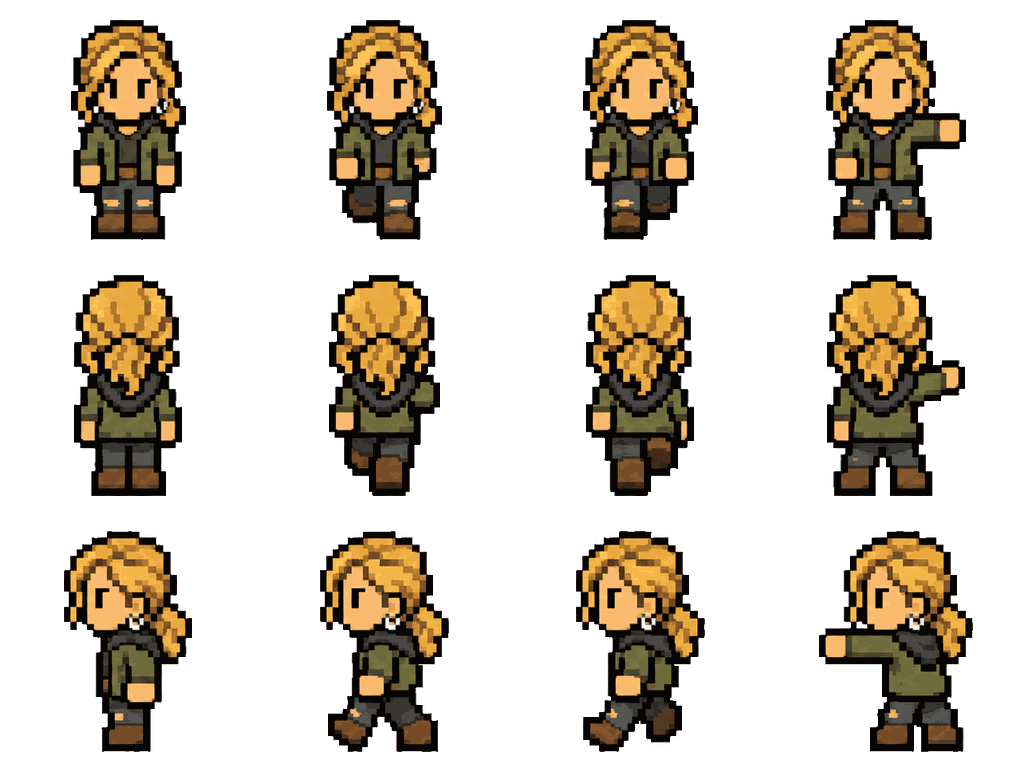
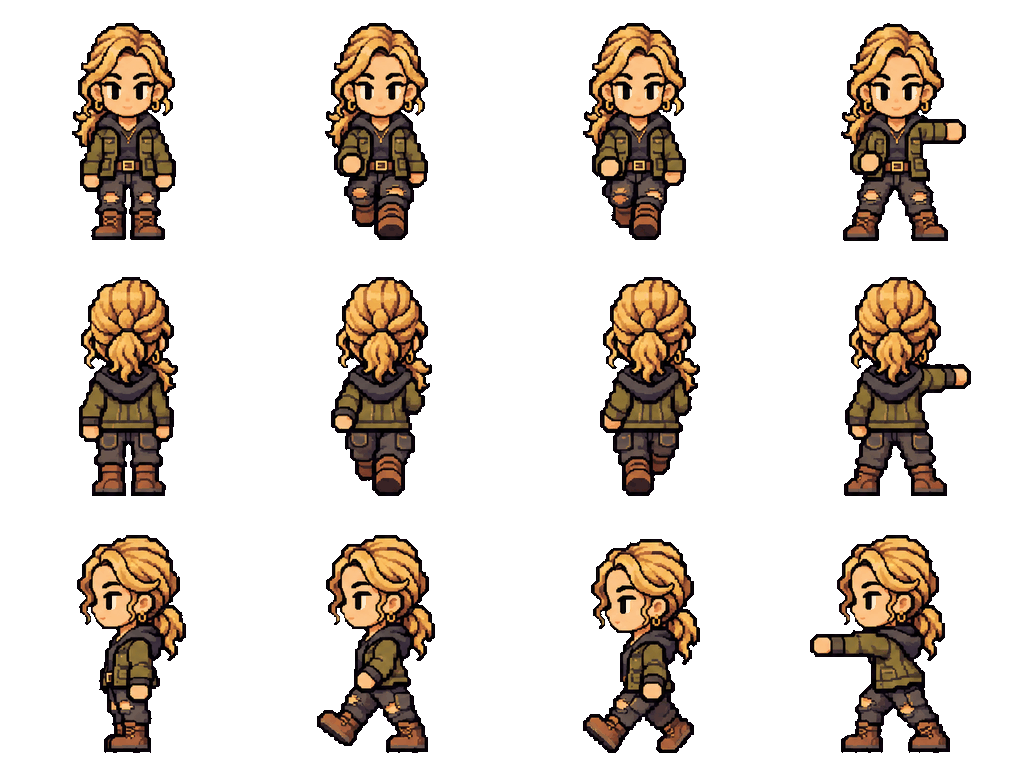
Elegir personaje por lista (hombre/mujer), 11 solo ORK con clase fija, hojas nuevas y reemplazos, sin doble modelo en la chica y el chico, evento de MVP sin daño entre jugadores y premios repartidos, emblemas de bando en los nombres
Claude-Session: https://claude.ai/code/session_01VGCmBo3CsU2Xq1dNwQVK9W

diff --git a/www/cenizas.js b/www/cenizas.js
@@ -111,7 +111,7 @@
     return lk && lk.npc && NPC && NPC.C[lk.npc] ? NPC.draw(lk.npc, dir, frame) : sprite(lk, dir, frame, atk); }
   /* dibuja un personaje (pixel 18×26 o planilla HD) con los pies en (sx, sy) */
   function blitChar(ctx, spr, sx, sy, S, k) { if (spr.hd) return HD.blit(ctx, spr, sx, sy + S, 25 * S * (k == null ? HD_K : k)); ctx.imageSmoothingEnabled = false; ctx.drawImage(spr, Math.round(sx - 9 * S), Math.round(sy - 25 * S), Math.round(18 * S), Math.round(26 * S)); }
-  const SKIN_NAMES = { pablo: 'Pablo 1', pablo2: 'Pablo 2', pablo3: 'Pablo 3', pol: 'Pol del futuro', polAlter: 'Pol alter', renzo: 'Renzo', sam: 'Sam', eze: 'Eze', esteban: 'Esteban', giuliana: 'Giuliana', lean: 'Lean', luis: 'Luis', norbert: 'Norbert', toby: 'Tobías', tomy: 'Tomy' };
+  const SKIN_NAMES = { pablo4: 'Pablo casual', pabloFuturo: 'Pablo futuro', pablo: 'Pablo 1', pablo2: 'Pablo 2', pablo3: 'Pablo 3', pol: 'Pol del futuro', polAlter: 'Pol alter', renzo: 'Renzo', sam: 'Sam', eze: 'Eze', esteban: 'Esteban', giuliana: 'Giuliana', lean: 'Lean', luis: 'Luis', norbert: 'Norbert', toby: 'Tobías', tomy: 'Tomy' };
   const skinName = k => { const n = SKIN_NAMES[k]; if (n) return n; const H = window.CZ_SHEETS; if (H && H.ALL.includes(H.NPC_SHEET[k] || k)) return (k.charAt(0).toUpperCase() + k.slice(1)).replace(/_/g, ' '); return null; };
   /* tipos de Oscuro: h = altura en mundo; las imágenes laterales miran a la derecha */
   /* Oscuros en pixel: PXS = tamaño de cada pixel en el mundo (igual que los avatares) */
@@ -386,7 +386,7 @@
       addItem(k); INV.dur[k] = it.mag; return k; }
     addItem(k); return k; }
   /* botín: fichas genéricas que se convierten en un objeto del color que toque */
-  const DROPW = { mapa: { v: 70, a: 22, p: 7, n: 1 }, alto: { v: 45, a: 34, p: 17, n: 4 }, jefe: { v: 8, a: 32, p: 38, n: 22 }, mvp: { v: 0, a: 20, p: 45, n: 35 } };
+  const DROPW = { mapa: { v: 70, a: 22, p: 7, n: 1 }, alto: { v: 45, a: 34, p: 17, n: 4 }, jefe: { v: 8, a: 32, p: 38, n: 22 }, mvp: { v: 0, a: 20, p: 45, n: 35 }, evento: { v: 65, a: 30, p: 5 } };
   const pickT = w => pickW(Object.entries(DROPW[w] || DROPW.mapa));
   function resolveLoot(k, w) { if (!k || k.length > 2 || !/^[A-Z]$/.test(k)) return k; const t = pickT(w || (MAP && (MAP.lv || [1, 3])[1] > 30 ? 'alto' : 'mapa'));
     if (k === 'W') return TKEY(pickW([['barra', 2], ['cuchillo', 2], ['bate', 2], ['lanza', 1], ['katana', 1], ['hacha', 1.4], ['machete', 1.6], ['martillo', 1], ['cadena', 1.2], ['tubo', 1.3]]), t);
@@ -568,7 +568,7 @@
   }
   /* skins: Pablo y Pol son de una cuenta; Renzo y Sam se ganan matando a Mercedes */
   let mySkins = [];
-  async function loadSkins(uid, gc) { const set = new Set((gc && gc.inv && gc.inv.skins) || []);
+  async function loadSkins(uid, gc) { const set = new Set((gc && gc.inv && gc.inv.skins) || []); if (me && ['xhiang', 'pablo'].includes(String(me.nick || '').toLowerCase())) { set.add('pablo4'); set.add('pabloFuturo'); }
     try { const { data } = await sb.from('game_skins').select('skin').eq('user_id', uid); (data || []).forEach(r => set.add(r.skin)); } catch (e) {}
     return [...set].filter(k => skinName(k)); }
   /* EXPERIMENTAL: nivel, mochila y lugar guardados aparte (game_exp, o el teléfono si falta la tabla) */
@@ -583,29 +583,34 @@
   function perkText() { if (!me || me.faction !== 'ork') return 'Rebeldes: corren más rápido y encuentran más cosas al matar Oscuros.'; return 'ORK: los Oscuros te sacan 15% menos. ' + ['Militar: los Perros te sacan 40% menos.', 'Científico: los Corredores te sacan 40% menos.', 'Espía: los Errantes te sacan 40% menos.'][(look && look.cls) || 0]; }
   function creator(prev) {
     const pl = prev && prev.look && prev.look.body != null ? prev.look : {};
-    look = Object.assign({ body: 0, skin: 1, hair: 0, hcol: 1, top: 0, acc: 0 }, pl, { fac: me.faction }); delete look.char;
+    look = Object.assign({ body: 0 }, pl, { fac: me.faction }); delete look.char;
     const cre = $('#cre'); cre.hidden = false; let rot = 0; const dirs = ['d', 'l', 'u', 'r'];
     if (me.faction === 'ork' && look.cls == null) look.cls = 0;
     const box = $('#opts');
     function rows() { box.querySelectorAll('.opt,.perk').forEach(e => e.remove());
-      const opts = [['CUERPO', 'body', () => BODY], ['PIEL', 'skin', () => ['Tono 1', 'Tono 2', 'Tono 3', 'Tono 4']], ['PELO', 'hair', () => HAIR], ['COLOR', 'hcol', () => HCOL.map(h => h[0])],
-        ['ROPA', 'top', () => me.faction === 'ork' ? OTOPS[look.cls].map(t => t[0]) : TOPS.rebel.map(t => t[0])], ['ACCESORIO', 'acc', () => ACC]];
-      if (HD) { for (let i = opts.length - 1; i >= 0; i--) if (opts[i][1] === 'hair' || opts[i][1] === 'acc') opts.splice(i, 1); opts.push(['PANTALÓN', 'pant', () => PANTC.map(p => p[0])]); opts.splice(opts.findIndex(o => o[1] === 'body') + 1, 0, ['MODELO', 'model', () => ['Modelo 1', 'Modelo 2']]); }
-      if (me.faction === 'ork') opts.unshift(['CLASE', 'cls', () => OCLS]);
-      const SELL_ = (HD && HD.SEL) || []; if (SELL_.length) { opts.unshift(['ASPECTO', 'pjI', () => ['Armable'].concat(SELL_.map((k, i) => 'Sobreviviente ' + (i + 1)))]); look.pjI = look.pj ? SELL_.indexOf(look.pj) + 1 : 0; }
-      if (mySkins.length) opts.unshift(['PERSONAJE', 'npcI', () => ['Propio'].concat(mySkins.map(k => skinName(k)))]);
+      const ork = me.faction === 'ork', list = HD ? HD.roster(look.body === 1, ork) : [];
+      if (HD) { let ix = HD.rosterIdx(list, look); if (look.pj && !list.some(r => r.k === look.pj)) ix = 0; HD.pickPj(look, list[ix]); look.pjI = ix; }
+      const cur = HD ? list[look.pjI] : null, fixed = cur && cur.cls != null;
+      const opts = [['CUERPO', 'body', () => BODY], ['PERSONAJE', 'pjI', () => list.map(r => r.nm)]];
+      if (ork) opts.push(['CLASE', 'cls', () => OCLS, fixed]);
+      if (mySkins.length) opts.unshift(['ESPECIAL', 'npcI', () => ['Ninguno'].concat(mySkins.map(k => skinName(k)))]);
       look.npcI = look.npc ? mySkins.indexOf(look.npc) + 1 : 0;
       const first = box.firstChild;
-      opts.forEach(([lab, k, lf]) => { const list = lf(); const r = document.createElement('div'); r.className = 'opt';
+      opts.forEach(([lab, k, lf, lock]) => { const L = lf(); const r = document.createElement('div'); r.className = 'opt';
         r.innerHTML = '<span>' + lab + '</span><button aria-label="anterior">‹</button><b></b><button aria-label="siguiente">›</button>';
-        const bb = r.querySelector('b'); const upd = () => bb.textContent = list[look[k] || 0] || list[0];
-        const ch_ = dv => { look[k] = ((look[k] || 0) + dv + list.length) % list.length; if (k === 'npcI') { if (look.npcI) look.npc = mySkins[look.npcI - 1]; else delete look.npc; } if (k === 'pjI') { if (look.pjI) look.pj = HD.SEL[look.pjI - 1]; else delete look.pj; } if (k === 'cls') { look.top = 0; rows(); } else upd(); draw(); };
-        r.children[1].onclick = () => ch_(-1); r.children[3].onclick = () => ch_(1); upd(); box.insertBefore(r, first); });
+        const bb = r.querySelector('b'); bb.textContent = L[look[k] || 0] || L[0];
+        if (lock) { r.children[1].disabled = r.children[3].disabled = true; r.classList.add('lock'); bb.textContent += ' · fija'; }
+        const ch_ = dv => { look[k] = ((look[k] || 0) + dv + L.length) % L.length;
+          if (k === 'npcI') { if (look.npcI) look.npc = mySkins[look.npcI - 1]; else delete look.npc; }
+          if (k === 'body') { delete look.pj; delete look.model; }
+          if (k === 'pjI') { HD.pickPj(look, list[look.pjI]); if (list[look.pjI].cls == null && cur && cur.cls != null) look.cls = 0; }
+          rows(); draw(); };
+        r.children[1].onclick = () => ch_(-1); r.children[3].onclick = () => ch_(1); box.insertBefore(r, first); });
       const pk = document.createElement('p'); pk.className = 'perk'; pk.textContent = perkText(); box.insertBefore(pk, first); }
     box.innerHTML = '';
     const go = document.createElement('button'); go.className = 'btn solid go'; go.textContent = 'ENTRAR'; box.appendChild(go); rows();
     const pv = $('#pv'), pg = pv.getContext('2d'); pg.imageSmoothingEnabled = false;
-    let f = 0; draw = function () { pg.clearRect(0, 0, 48, 64); blitChar(pg, charSprite(look, dirs[rot], f, false), 24, 44, 1, 1); }
+    let f = 0; draw = function () { pg.clearRect(0, 0, 240, 320); const sp = charSprite(look, dirs[rot], f, false); pg.imageSmoothingEnabled = !!sp.hd; blitChar(pg, sp, 120, 220, 5, 1.6); }
     const iv = setInterval(() => { f = (f + 1) % 3; draw(); }, 260); draw();
     $('#pv-rot').onclick = () => { rot = (rot + 1) % 4; draw(); };
     go.onclick = async () => { go.disabled = true; clearInterval(iv); delete look.npcI; delete look.pjI;
@@ -696,7 +701,8 @@
     warping = true; $('#fade').classList.add('on'); persist();
     setTimeout(() => { enterMap(e.to, e.at[0] * WS, e.at[1] * WS); sendPos(true); persist(); $('#fade').classList.remove('on'); warping = false; }, 650); }
   function warpTo(k, x, y) { if (!MAPS[k]) return; warping = true; $('#fade').classList.add('on'); setTimeout(() => { enterMap(k, x != null ? x * WS : null, y != null ? y * WS : null); sendPos(true); persist(); $('#fade').classList.remove('on'); warping = false; }, 650); }
-  function drawAv() { const cv = $('#h-av'); if (!cv || !look) return; const g = cv.getContext('2d'); g.clearRect(0, 0, 96, 128); let spr = null; try { spr = charSprite(look, 'd', 0, false); } catch (e) {} if (!spr) return; if (spr.hd) { g.imageSmoothingEnabled = true; g.drawImage(spr, 58, 22, 140, 186, 0, 0, 96, 128); } else { g.imageSmoothingEnabled = false; g.drawImage(spr, 0, 0, spr.width, spr.height * .7, 6, 6, 84, 116 * .9); } drawAv.ok = spr.hd ? 2 : 1; }
+  function drawAv() { const cv = $('#h-av'); if (!cv || !look) return; const g = cv.getContext('2d'); g.clearRect(0, 0, 96, 128); let spr = null; try { spr = charSprite(look, 'd', 0, false); } catch (e) {} if (!spr) return; if (spr.hd) { g.imageSmoothingEnabled = true; g.drawImage(spr, 58, 22, 140, 186, 0, 0, 96, 128); } else { g.imageSmoothingEnabled = false; g.drawImage(spr, 0, 0, spr.width, spr.height * .7, 6, 6, 84, 116 * .9); } drawAv.ok = spr.hd ? 2 : 1; drawAv.key = JSON.stringify(look); }
+  setInterval(() => { if (look && ((drawAv.ok || 0) < 2 || drawAv.key !== JSON.stringify(look))) drawAv(); }, 600); /* el retrato espera a que cargue la planilla */
   function hud() { if ((drawAv.ok || 0) < 2 && (drawAv.n = (drawAv.n || 0) + 1) < 60 && drawAv.n % 6 === 0) drawAv(); { const nk = $('#h-nick'), t_ = me.nick + '|' + lvlOf(P.xp); if (nk && nk.dataset.v !== t_) { nk.dataset.v = t_; nk.textContent = me.nick; const e_ = document.createElement('em'); e_.textContent = 'NV ' + lvlOf(P.xp); nk.appendChild(e_); } } const lv = lvlOf(P.xp), a = xpFor(lv), b = xpFor(lv + 1); $('#h-hp').style.width = Math.max(0, P.hp / maxHp(lv) * 100) + '%'; $('#h-xp').style.width = (lv >= 100 ? 100 : Math.min(100, (P.xp - a) / (b - a) * 100)) + '%';
     $('#h-lv').textContent = 'NV ' + lv + ' · ' + (INV ? weaponLabel() : 'PALO') + ' · ' + Math.ceil(P.hp) + '/' + maxHp(lv) + (INV && INV.eq.luz ? ' · LUZ ' + Math.ceil(INV.bat) + '%' : '') + (INV && INV.eq.ropa ? ' · ESCUDO ' + (INV.dur[INV.eq.ropa] != null ? INV.dur[INV.eq.ropa] : ITEMS[INV.eq.ropa].shield) : '') + ' · ' + (INV ? INV.coins : 0) + ' monedas' + (INV && INV.ab.length ? ' · ' + INV.ab.map(a => AB[a].n).join(' · ') : '') + (suero.map ? ' · MALETÍN: ' + MAPS[suero.map].name : ''); }
   async function persist() { if (!P || !me || !look) return; if (EXP) return persistExp(); store.set('cz-inv-' + me.id, JSON.stringify(INV));
@@ -776,7 +782,7 @@
   /* PvP: al morir a manos de otro jugador se te cae un objeto común */
   function pvpDrop() { const k = ['suero', 'pilas', 'campera', 'chaleco'].find(k => hasItem(k) && INV.eq.ropa !== k && k !== 'vendas'); if (!k) return; INV.items[k]--; if (!INV.items[k]) delete INV.items[k];
     const pid = me.id.slice(0, 6) + Date.now(); pickups.push({ k, x: P.x, y: P.y, t: 0, pid }); net('drop', { pid, k, x: Math.round(P.x), y: Math.round(P.y) }); persist(); }
-  const enemy = o => o && o.fac && o.fac !== me.faction && !o.dead && !o.iv;
+  const enemy = o => o && o.fac && o.fac !== me.faction && !o.dead && !o.iv && !(MAP && MAP.mvp); /* en el evento de MVP nadie se pega con nadie */
 
   /* mochila */
   let invSel = null;
@@ -1015,12 +1021,21 @@
     INV.mvpDay = dayN(); INV.mvpWon = INV.mvpWon || {}; INV.mvpWon[mk] = (INV.mvpWon[mk] || 0) + 1;
     banner('¡VENCIERON!', M.n + ' cayó', 3500, '#ffd860'); SND.level(); buzz([60, 40, 120]);
     if (P.dead) { P.dead = false; P.hp = maxHp(lvlOf(P.xp)) * .5; $('#ov-dead').hidden = true; }
-    const got = []; M.drops.forEach(([k, ch]) => { if (Math.random() < ch) { addItem(k); got.push(ITEMS[k].n); } });
-    for (let i = 0; i < 2; i++) { const k = resolveLoot(pickW([['W', 2], ['C', 2], ['A', 2], ['G', 1], ['V', 2], ['P', 1]]), 'mvp'); const g = takeItem(k); if (g) got.push(ITEMS[g].n); }
+    /* premio para todos los que estén: oro + 2 cosas comunes */
+    const ORO = 200; INV.coins += ORO; const got = [ORO + ' monedas'];
+    for (let i = 0; i < 2; i++) { const k = resolveLoot(pickW([['W', 2], ['C', 2], ['A', 2], ['V', 3], ['P', 2], ['M', 2]]), 'evento'); const g = takeItem(k); if (g) got.push(ITEMS[g].n); }
+    hud(); quickBtns();
+    /* ítem único: lo tira una sola vez el host. 10%: si sale, le toca a uno de los presentes al azar; si no, a nadie */
+    if (isHost) { const ids = [me.id].concat([...others.keys()]); if (Math.random() < MVP_UNICO) { const k = M.drops[(Math.random() * M.drops.length) | 0][0], to = ids[(Math.random() * ids.length) | 0];
+        const nick = to === me.id ? me.nick : (others.get(to) || {}).nick || 'alguien'; net('mvploot', { to, k, nick }); mvpLoot({ to, k, nick }); } else net('mvploot', { none: 1 }), mvpLoot({ none: 1 }); }
     if (M.pista) { INV.mvpPistas = INV.mvpPistas || []; if (!INV.mvpPistas.includes(M.pista)) INV.mvpPistas.push(M.pista); }
     setTimeout(() => { toast('Ganaste: ' + got.join(' · ') + (M.pista ? ' · PISTA: "' + M.pista + '"' : '')); }, 1500);
-    if (M.pista) setTimeout(() => banner('PISTA', '"' + M.pista + '"', 4000, '#e8c070'), 4200);
+    if (M.pista) setTimeout(() => banner('PISTA', '"' + M.pista + '"', 4000, '#e8c070'), 7200);
     persist(); setTimeout(() => mvpBack(), 11000); }
+  const MVP_UNICO = .10;
+  function mvpLoot(p) { if (p.none) return setTimeout(() => toast('Esta vez no cayó ningún objeto único.'), 2600);
+    const it = ITEMS[p.k]; if (!it) return; if (p.to === me.id) { addItem(p.k); persist(); quickBtns(); SND.level(); buzz([80, 40, 160]); }
+    setTimeout(() => banner(p.to === me.id ? '¡OBJETO ÚNICO!' : 'OBJETO ÚNICO', (p.to === me.id ? 'Te tocó: ' : p.nick + ' se llevó: ') + it.n, 4200, '#ff3b5c'), 2600); }
   function revive(id) { if (!hasItem('suero') && !hasItem('kit')) return toast('Para revivir necesitás un maletín de curación total o un kit de curación.'); const k = hasItem('suero') ? 'suero' : 'kit'; INV.items[k]--; if (!INV.items[k]) delete INV.items[k]; if (k === 'suero') sueroTaken();
     net('revive', { to: id, by: me.nick }); SND.level(); toast('Lo reviviste.'); persist(); quickBtns(); }
   /* al morir quedás limpio: sin veneno, fuego, lentitud, aturdimiento ni habilidades */
@@ -1251,13 +1266,14 @@
       enemies: p => applyEnemies(p),
       req: () => { if (netMode === 'MULTI_HOST') needFull = true; lastPlayerSent = null; },
       say: p => { const o = others.get(p.id); if (o) { o.say = p.t; o.sayT = 6; } },
-      hit: p => { const a = others.get(p.id); if (p.to === me.id) { if (!a || a.fac === me.faction) return; if (hitPlayer(p.d, { x: p.ax, y: p.ay }, 40, p.id)) floats.push({ x: P.x, y: P.y - 215, t: 1, txt: a.nick, c: '#ff7a70' }); } else { const v = others.get(p.to); if (v) v.hurt = .2; } },
+      hit: p => { const a = others.get(p.id); if (p.to === me.id) { if (!a || a.fac === me.faction || MAP.mvp) return; if (hitPlayer(p.d, { x: p.ax, y: p.ay }, 40, p.id)) floats.push({ x: P.x, y: P.y - 215, t: 1, txt: a.nick, c: '#ff7a70' }); } else { const v = others.get(p.to); if (v) v.hurt = .2; } },
       died: p => { const v = others.get(p.id); if (v) { v.dead = true; v.hp = 0; }
         if (p.by === me.id) { const lvB = lvlOf(P.xp); P.xp += 40; P.pvp = (P.pvp || 0) + 1; SND.level(); buzz([40, 40, 90]); toast('Derribaste a ' + (v ? v.nick : 'un enemigo') + ' · +40 XP'); if (lvlOf(P.xp) > lvB) P.hp += maxHp(lvlOf(P.xp)) - maxHp(lvB); hud(); persist(); }
         else if (v) toast(v.nick + ' cayó.'); },
       mhit: p => { if (netMode !== 'MULTI_HOST') return; const o = mobs.find(m => m.id === p.id); if (o) { mobHit(o, p.d, p.kx, p.ky, p.by); if (p.fx) applyMobFx(o, p.fx, p.by); } },
       throw: p => { throws.push({ k: p.k, x0: p.x0, y0: p.y0, x1: p.x1, y1: p.y1, t: 0, T: .75, dmg: 0, remote: 1 }); },
       mvpgo: p => { if (p.from === mapKey) goMvp(p.mk, p.by); },
+      mvploot: p => { if (MAP.mvp) mvpLoot(p); },
       pfx: p => { if (p.to === me.id) applyPfx(p.fx); },
       mvpo: p => { if (isHost) return; mvpObjs = p.o.map(([id, t, x, y, hp]) => ({ id, t, x, y, hp })); },
       mvpx: p => { if (isHost) breakObj(p.id); },
@@ -1744,7 +1760,9 @@
           const heavy = wk === 'martillo' || wk === 'bate' || wk === 'baston_oscuro', rad = wk === 'barra' ? 115 : heavy ? 102 : 92;
           arc_(rad, heavy ? 10 : 6, tint('255,255,255', .7 * al), -1.1 + k * .6, .2 + k * .9);
           if (k > .45) { const ix = sx + Math.cos(a) * rad * zoom * .9, iy = cy0 + Math.sin(a) * rad * zoom * .6 + 60 * zoom, R = (heavy ? 60 : 36) * zoom * (k - .45) * 2; c.strokeStyle = tint('255,230,180', (1 - k) * 1.4); c.lineWidth = (heavy ? 4 : 2) * zoom; c.beginPath(); c.ellipse(ix, iy, R, R * .4, 0, 0, 7); c.stroke(); } } }
-      if (!mine && !o.gh) { c.font = Math.round(12 * Math.max(.85, zoom)) + 'px TechMono, monospace'; c.textAlign = 'center'; const nm = (o.lvl >= lvlOf(P.xp) + 10 && fac !== me.faction ? '☠ ' : '') + nick + (fac !== me.faction ? ' ✕' : ''); const w = c.measureText(nm).width + 10; const ny = sy - 27 * S - 6; c.fillStyle = 'rgba(0,0,0,.6)'; c.fillRect(sx - w / 2, ny - 12, w, 15); c.fillStyle = fac === 'ork' ? '#ff7a70' : '#eeeeee'; c.fillText(nm, sx, ny); }
+      if (!mine && !o.gh) { c.font = Math.round(12 * Math.max(.85, zoom)) + 'px TechMono, monospace'; c.textAlign = 'center'; const nm = (o.lvl >= lvlOf(P.xp) + 10 && fac !== me.faction ? '☠ ' : '') + nick; const ic = img(fac === 'ork' ? '/a/ui/fac_ork.webp' : '/a/ui/fac_rebel.webp'), isz = 18 * Math.max(.85, zoom), tw = c.measureText(nm).width, w = tw + isz + 14; const ny = sy - 27 * S - 6, x0 = sx - w / 2;
+        c.fillStyle = 'rgba(0,0,0,.62)'; c.fillRect(x0, ny - isz + 2, w, isz + 2); c.fillStyle = fac === 'ork' ? '#c9302a' : '#2f7fe0'; c.fillRect(x0, ny + 2, w, 2); /* bando: azul rebeldes · rojo ORK */
+        if (ok(ic)) c.drawImage(ic, x0 + 4, ny - isz + 2, isz, isz); c.textAlign = 'left'; c.fillStyle = fac === 'ork' ? '#ff7a70' : '#8fc4ff'; c.fillText(nm, x0 + isz + 9, ny - 2); c.textAlign = 'center'; }
       if (o.sayT > 0 && o.say) bubble(sx, sy - 27 * S - (mine ? 6 : 24), o.say); }
     function drawMob(o) { const T = o.T; const [sx, sy] = W2S(o.x, o.y); if (sx < -300 || sx > VW + 300 || sy < -50 || sy > VH + 400) return; if (T.eyes) return;
       let vis = o.vis; if (T.ai === 'blink' && (INV.eq.brazo === 'b_resonancia' || INV.eq.luz)) vis = Math.max(vis, .55);
@@ -1767,7 +1785,8 @@
       if (T.ai === 'mole' && o.wind > 0 && o.combo % 3 === 2) { const k = 1 - o.wind / (T.wind * 1.5); c.strokeStyle = 'rgba(255,60,40,' + (.4 + k * .5) + ')'; c.lineWidth = 3; c.beginPath(); c.ellipse(sx + o.face * 50 * zoom, sy, 120 * zoom * k, 40 * zoom * k, 0, 0, 7); c.stroke(); }
       if (T.ai === 'ranged' || T.boss) { const ar = (T.aura ? 110 : 60) * zoom * (1 + Math.sin(t * 4) * .06); c.globalCompositeOperation = 'lighter'; const gr = c.createRadialGradient(sx, sy - H * .55, 0, sx, sy - H * .55, ar); gr.addColorStop(0, T.aura ? 'rgba(' + T.aura + ',.32)' : 'rgba(255,120,40,.22)'); gr.addColorStop(1, 'rgba(0,0,0,0)'); c.fillStyle = gr; c.fillRect(sx - ar, sy - H * .55 - ar, ar * 2, ar * 2); c.globalCompositeOperation = 'source-over'; }
       if (T.ai === 'slam' && o.wind > 0) { const k = 1 - o.wind / T.wind; c.strokeStyle = 'rgba(255,90,70,' + (.25 + k * .5) + ')'; c.lineWidth = 2; c.beginPath(); c.ellipse(sx, sy, T.aoe * zoom * k, T.aoe * .35 * zoom * k, 0, 0, 7); c.stroke(); } }
-    function drawNpc(n) { if (n.obj) { const [ox, oy] = W2S(n.x * WS, n.y * WS); if (n.lib) { const im = img(LIBS[n.lib].img), h = 70 * zoom; if (ok(im)) { const w = im.naturalWidth / im.naturalHeight * h; shadow(ox, oy, 26); c.save(); c.shadowColor = n.lib === 'pablo' ? '#ff4060' : '#ff9ad0'; c.shadowBlur = 16 + Math.sin(t * 3) * 8; c.drawImage(im, ox - w / 2, oy - h - 10 + Math.sin(t * 2) * 3, w, h); c.restore(); } } if (n.cas) { const im = img('/a/ob/casillero.png'), h = 150 * zoom; if (ok(im)) { const w = im.naturalWidth / im.naturalHeight * h; shadow(ox, oy, 30); if (INV.cas && INV.cas[n.id] === dayN()) c.globalAlpha = .55; c.drawImage(im, ox - w / 2, oy - h, w, h); c.globalAlpha = 1; } }
+    function drawNpc(n) { if (n.dama) return; /* el mob ya se dibuja: el NPC de la chica/el chico es solo para hablarle */
+      if (n.obj) { const [ox, oy] = W2S(n.x * WS, n.y * WS); if (n.lib) { const im = img(LIBS[n.lib].img), h = 70 * zoom; if (ok(im)) { const w = im.naturalWidth / im.naturalHeight * h; shadow(ox, oy, 26); c.save(); c.shadowColor = n.lib === 'pablo' ? '#ff4060' : '#ff9ad0'; c.shadowBlur = 16 + Math.sin(t * 3) * 8; c.drawImage(im, ox - w / 2, oy - h - 10 + Math.sin(t * 2) * 3, w, h); c.restore(); } } if (n.cas) { const im = img('/a/ob/casillero.png'), h = 150 * zoom; if (ok(im)) { const w = im.naturalWidth / im.naturalHeight * h; shadow(ox, oy, 30); if (INV.cas && INV.cas[n.id] === dayN()) c.globalAlpha = .55; c.drawImage(im, ox - w / 2, oy - h, w, h); c.globalAlpha = 1; } }
         if (!n.cas && !n.lib && n.k) { const im = img('/a/ob/' + n.k + '.png'), h = 170 * zoom; if (ok(im)) { const w = im.naturalWidth / im.naturalHeight * h; shadow(ox, oy, 40); if (n.quest && (INV.quests || {})[n.quest.id]) c.globalAlpha = .6; c.drawImage(im, ox - w / 2, oy - h, w, h); c.globalAlpha = 1; } }
         if (nearNpc() === n) { c.font = Math.round(12 * Math.max(.85, zoom)) + 'px TechMono, monospace'; c.textAlign = 'center'; c.fillStyle = '#e8c070'; c.fillText(n.nm + ' · A', ox, oy - 40 * zoom); } return; } const [sx, sy] = W2S(n.x * WS, n.y * WS); if (sx < -200 || sx > VW + 200 || sy < -50 || sy > VH + 300) return; const S = 6.4 * zoom; shadow(sx, sy, 28);
       const dir = Math.abs(P.x - n.x * WS) > 120 ? (P.x < n.x * WS ? 'l' : 'r') : 'd'; blitChar(c, charSprite({ npc: n.k }, dir, 0, false), sx, sy, S, n.sc ? HD_K * n.sc : undefined); c.imageSmoothingEnabled = true;

diff --git a/www/app.js b/www/app.js
@@ -644,10 +644,10 @@
       if (spr) { HD.blit(g, spr, W / 2, H - 4, H * .86); return; } setTimeout(drawAv, 400); }
     g.imageSmoothingEnabled = false; g.drawImage(npc && window.CZ_NPC && CZ_NPC.C[lk.npc] ? CZ_NPC.draw(lk.npc, dir, avFrame) : THEOF_AV.sprite(Object.assign({}, lk, { fac: me.faction }), dir, avFrame, false), W * .125, H * .125, W * .75, H * .81); }
   /* skins: Pablo y Pol son de una cuenta; Renzo y Sam se ganan matando a Mercedes */
-  let avSkins = []; const SKN = { pablo: 'Pablo 1', pablo2: 'Pablo 2', pablo3: 'Pablo 3', pol: 'Pol del futuro', polAlter: 'Pol alter', renzo: 'Renzo', sam: 'Sam', eze: 'Eze', esteban: 'Esteban', giuliana: 'Giuliana', lean: 'Lean', luis: 'Luis', norbert: 'Norbert', toby: 'Tobías', tomy: 'Tomy' };
+  let avSkins = []; const SKN = { pablo4: 'Pablo casual', pabloFuturo: 'Pablo futuro', pablo: 'Pablo 1', pablo2: 'Pablo 2', pablo3: 'Pablo 3', pol: 'Pol del futuro', polAlter: 'Pol alter', renzo: 'Renzo', sam: 'Sam', eze: 'Eze', esteban: 'Esteban', giuliana: 'Giuliana', lean: 'Lean', luis: 'Luis', norbert: 'Norbert', toby: 'Tobías', tomy: 'Tomy' };
   const HCOL6 = [['Negro', '#1d1b1a'], ['Castaño', '#4b3a2e'], ['Gris', '#8b8680'], ['Blanco', '#d6d2cc'], ['Rubio', '#c9a24a'], ['Colorado', '#a8452a']], PANTC = [['Gris oscuro', '#38383a'], ['Jean', '#3e5a7a'], ['Caqui', '#7a6a4a'], ['Negro', '#1c1c1e'], ['Verde', '#4a5240']];
   const sknName = k => { if (SKN[k]) return SKN[k]; const H = window.CZ_SHEETS; return H && H.ALL.includes(H.NPC_SHEET[k] || k) ? (k.charAt(0).toUpperCase() + k.slice(1)).replace(/_/g, ' ') : null; };
-  async function loadSkins() { const set = new Set((gchar && gchar.inv && gchar.inv.skins) || []); try { const { data } = await sb.from('game_skins').select('skin').eq('user_id', me.id); (data || []).forEach(r => set.add(r.skin)); } catch (e) {} avSkins = [...set].filter(k => sknName(k)); }
+  async function loadSkins() { const set = new Set((gchar && gchar.inv && gchar.inv.skins) || []); if (me && ['xhiang', 'pablo'].includes(String(me.nick || '').toLowerCase())) { set.add('pablo4'); set.add('pabloFuturo'); } try { const { data } = await sb.from('game_skins').select('skin').eq('user_id', me.id); (data || []).forEach(r => set.add(r.skin)); } catch (e) {} avSkins = [...set].filter(k => sknName(k)); }
   async function loadGameChar() { let { data, error } = await sb.from('game_chars').select('look,zone,xp,kills,inv').eq('user_id', me.id).maybeSingle();
     if (error && /inv/.test(error.message || '')) ({ data, error } = await sb.from('game_chars').select('look,zone,xp,kills').eq('user_id', me.id).maybeSingle());
     if (error) { gchar = null; $('#d-avnote').hidden = false; $('#d-avnote').textContent = 'El avatar se activa cuando el admin corre el SQL de Cenizas.'; $('#av-open').hidden = true; return; }
@@ -655,20 +655,25 @@
     $('#d-game').textContent = data ? 'NV ' + (Math.floor(Math.sqrt((data.xp || 0) / 50)) + 1) + ' · ' + (data.kills || 0) + ' caídos · ' + (ZN[data.zone] || '—') : 'todavía no entraste';
     await loadSkins(); drawAv(); }
   $('#d-pic').onclick = () => { avRot = (avRot + 1) % 4; drawAv(); };
-  $('#av-open').onclick = () => { const A = THEOF_AV; avLook = Object.assign({ body: 0, skin: 1, hair: 0, hcol: 1, top: 0, acc: 0 }, gchar && gchar.look && gchar.look.body != null ? gchar.look : {}, { fac: me.faction }); delete avLook.char;
+  $('#av-open').onclick = () => { const A = THEOF_AV; avLook = Object.assign({ body: 0 }, gchar && gchar.look && gchar.look.body != null ? gchar.look : {}, { fac: me.faction }); delete avLook.char;
     const ork = me.faction === 'ork'; if (ork && avLook.cls == null) avLook.cls = 0;
     const box = $('#av-opts');
-    const build = () => { box.innerHTML = '';
-      const opts = [['CUERPO', 'body', A.BODY], ['MODELO', 'model', ['Modelo 1', 'Modelo 2']], ['PIEL', 'skin', ['Tono 1', 'Tono 2', 'Tono 3', 'Tono 4']], ['PELO', 'hcol', HCOL6.map(h => h[0])], ['ROPA', 'top', ork ? A.OTOPS[avLook.cls].map(t => t[0]) : A.TOPS.rebel.map(t => t[0])], ['PANTALÓN', 'pant', PANTC.map(p => p[0])]];
-      if (ork) opts.unshift(['CLASE', 'cls', A.OCLS]);
-      const SEL = (window.CZ_SHEETS && CZ_SHEETS.SEL) || []; if (SEL.length) { opts.unshift(['ASPECTO', 'pjI', ['Armable'].concat(SEL.map((k, i) => 'Sobreviviente ' + (i + 1)))]); avLook.pjI = avLook.pj ? SEL.indexOf(avLook.pj) + 1 : 0; }
-      if (avSkins.length) { opts.unshift(['PERSONAJE', 'npcI', ['Propio'].concat(avSkins.map(k => sknName(k)))]); avLook.npcI = avLook.npc ? avSkins.indexOf(avLook.npc) + 1 : 0; }
-      opts.forEach(([lab, k, list]) => { const r = document.createElement('div'); r.className = 'avopt'; r.innerHTML = '<span>' + lab + '</span><button type="button" aria-label="anterior">‹</button><b></b><button type="button" aria-label="siguiente">›</button>';
-        const b = r.querySelector('b'), upd = () => b.textContent = list[avLook[k] || 0] || list[0];
-        const mv = dv => { avLook[k] = ((avLook[k] || 0) + dv + list.length) % list.length; if (k === 'npcI') { if (avLook.npcI) avLook.npc = avSkins[avLook.npcI - 1]; else delete avLook.npc; } if (k === 'pjI') { const SEL = CZ_SHEETS.SEL; if (avLook.pjI) avLook.pj = SEL[avLook.pjI - 1]; else delete avLook.pj; } if (k === 'cls') { avLook.top = 0; build(); } else upd(); drawAv(); };
-        r.children[1].onclick = () => mv(-1); r.children[3].onclick = () => mv(1); upd(); box.appendChild(r); });
-      if (!ork) { const pk = document.createElement('p'); pk.className = 'note'; pk.style.marginTop = '8px'; pk.textContent = 'Rebeldes: corren más rápido y encuentran más cosas al matar Oscuros.'; box.appendChild(pk); }
-      if (ork) { const pk = document.createElement('p'); pk.className = 'note'; pk.style.marginTop = '8px'; pk.textContent = 'ORK: los Oscuros te sacan 15% menos. ' + ['Militar: los Perros te sacan 40% menos.', 'Científico: los Corredores te sacan 40% menos.', 'Espía: los Errantes te sacan 40% menos.'][avLook.cls]; box.appendChild(pk); } };
+    const build = () => { box.innerHTML = ''; const H = window.CZ_SHEETS, list = H ? H.roster(avLook.body === 1, ork) : [];
+      if (H) { let ix = H.rosterIdx(list, avLook); if (avLook.pj && !list.some(r => r.k === avLook.pj)) ix = 0; H.pickPj(avLook, list[ix]); avLook.pjI = ix; }
+      const cur = H ? list[avLook.pjI] : null, fixed = cur && cur.cls != null;
+      const opts = [['CUERPO', 'body', A.BODY], ['PERSONAJE', 'pjI', list.map(r => r.nm)]];
+      if (ork) opts.push(['CLASE', 'cls', A.OCLS, fixed]);
+      if (avSkins.length) { opts.unshift(['ESPECIAL', 'npcI', ['Ninguno'].concat(avSkins.map(k => sknName(k)))]); avLook.npcI = avLook.npc ? avSkins.indexOf(avLook.npc) + 1 : 0; }
+      opts.forEach(([lab, k, L, lock]) => { const r = document.createElement('div'); r.className = 'avopt'; r.innerHTML = '<span>' + lab + '</span><button type="button" aria-label="anterior">‹</button><b></b><button type="button" aria-label="siguiente">›</button>';
+        const b = r.querySelector('b'); b.textContent = L[avLook[k] || 0] || L[0];
+        if (lock) { r.children[1].disabled = r.children[3].disabled = true; r.children[1].style.opacity = r.children[3].style.opacity = .25; b.textContent += ' · fija'; }
+        const mv = dv => { avLook[k] = ((avLook[k] || 0) + dv + L.length) % L.length;
+          if (k === 'npcI') { if (avLook.npcI) avLook.npc = avSkins[avLook.npcI - 1]; else delete avLook.npc; }
+          if (k === 'body') { delete avLook.pj; delete avLook.model; }
+          if (k === 'pjI') { H.pickPj(avLook, list[avLook.pjI]); if (list[avLook.pjI].cls == null && fixed) avLook.cls = 0; }
+          build(); drawAv(); };
+        r.children[1].onclick = () => mv(-1); r.children[3].onclick = () => mv(1); box.appendChild(r); });
+      const pk = document.createElement('p'); pk.className = 'note'; pk.style.marginTop = '8px'; pk.textContent = ork ? 'ORK: los Oscuros te sacan 15% menos. ' + ['Militar: los Perros te sacan 40% menos.', 'Científico: los Corredores te sacan 40% menos.', 'Espía: los Errantes te sacan 40% menos.'][avLook.cls || 0] : 'Rebeldes: corren más rápido y encuentran más cosas al matar Oscuros.'; box.appendChild(pk); };
     build();
     $('#av-edit').hidden = false; $('#av-open').hidden = true; say('#av-msg', ''); drawAv(); };
   $('#av-cancel').onclick = () => { avLook = null; $('#av-edit').hidden = true; $('#av-open').hidden = false; drawAv(); };

diff --git a/www/cenizas-sheets.js b/www/cenizas-sheets.js
@@ -6,7 +6,7 @@
   const CELL = 256, ROW = { d: 0, u: 1, l: 2, r: 2 };
   const imgs = {}, cuts = new Map(), tints = new Map();
   /* personajes de la historia (NPC y skins) → su planilla */
-  const NPC_SHEET = { sofia_mala2: 'sofia_mala2', esteban: 'teby', pablo2: 'pablo_2', pablo3: 'pablo_3', polAlter: 'pol_alter', pablo: 'pablo_1', renzo: 'renzo', mary: 'mary_futuro', rosa: 'rosa', mercedes: 'mercedes', mercedesMala: 'mercedes', sam: 'sam', pol: 'pol_futuro', sofia: 'sofia_mala' };
+  const NPC_SHEET = { pablo4: 'pablo_4', pabloFuturo: 'pablo_futuro', sofia_mala2: 'sofia_mala2', esteban: 'teby', pablo2: 'pablo_2', pablo3: 'pablo_3', polAlter: 'pol_alter', pablo: 'pablo_1', renzo: 'renzo', mary: 'mary_futuro', rosa: 'rosa', mercedes: 'mercedes', mercedesMala: 'mercedes', sam: 'sam', pol: 'pol_futuro', sofia: 'sofia_mala' };
   /* Oscuros → su planilla (los que no están acá siguen con el dibujo pixel) */
   const MOB_SHEET = { errante: 'oscuro_hombre3', perro: 'sabueso', rastrero: 'gato', corredor: 'corredor_final', sombra: 'espectro', mole: 'mole', denso: 'le_cape', incinerario: 'corredor_incinerario' };
   const load = src => { if (!imgs[src]) { const i = new Image(); i.src = src; imgs[src] = i; } const i = imgs[src]; return i.complete && i.naturalWidth ? i : null; };
@@ -41,6 +41,21 @@
   /* precarga lo que se usa siempre */
   ['base_h1', 'base_h2', 'base_m1', 'base_m2'].flatMap(b => [b, b + '_reg']).concat(Object.values(NPC_SHEET), Object.values(MOB_SHEET)).forEach(n => load('/a/pj/' + n + '.png'));
   const SEL = ["sel01", "sel02", "sel03", "sel04", "sel05", "sel07", "sel08", "sel09", "sel11", "sel12", "sel13", "sel14", "sel15", "sel16", "sel17", "sel18", "sel20", "sel21", "sel22", "sel23", "sel24", "sel25", "sel26", "sel27", "sel29", "sel31", "sel34", "sel35"];
-  const ALL = ["agente_patrulla_ork", "ani", "anita", "anixa", "arshi", "azu", "bong", "carolina", "cin", "civil_anciano", "civil_hombre", "civil_m", "civil_mujer", "civil_nene", "civil_trabajador", "claudia", "corredor_final", "corredor_incinerario", "cyn", "dario", "ding", "doctor_ork", "el_sabio", "espectro", "ex01", "ex02", "ex03", "ex04", "ex05", "ex06", "ex07", "ex08", "ex09", "ex10", "ex11", "ex12", "ex13", "ex14", "ex15", "ex16", "ex17", "ex18", "ex19", "ex20", "ex21", "ex22", "ex23", "ex24", "ex25", "ex26", "ex27", "ex28", "ex29", "ex30", "ex31", "ex32", "ex33", "ex34", "ex35", "ex36", "ex37", "ex38", "ex39", "ex40", "ex41", "eze", "gato", "giuliana", "gusty", "ignacio", "instructor_ork", "irene", "jaqui", "jem", "joaco", "jota", "jota_viejo", "julieta", "kamikaze", "laura", "le_cape", "lean", "leti", "lilia", "lucas", "lucas_hermano", "luis", "mariano", "mariela", "marta", "mary_futuro", "maxi", "mercedes", "mole", "natsume", "norbert", "oficial_ork", "oscuro_hombre", "oscuro_mujer", "pablo_1", "pablo_2", "pablo_3", "pol_alter", "pol_futuro", "raul", "renzo", "rocio", "romina", "rosa", "ruben", "sabueso", "sam", "sasha", "sel01", "sel02", "sel03", "sel04", "sel05", "sel07", "sel08", "sel09", "sel11", "sel12", "sel13", "sel14", "sel15", "sel16", "sel17", "sel18", "sel20", "sel21", "sel22", "sel23", "sel24", "sel25", "sel26", "sel27", "sel29", "sel31", "sel34", "sel35", "sofia_buena", "sofia_mala", "teby", "tecnico_ork", "tincho", "toby", "tomy", "vanesa", "viajero", "yuki"];
-  window.CZ_SHEETS = { SEL, CELL, MODELS, ALL, NPC_SHEET, MOB_SHEET, sheet, base, blit, load };
+  const ALL = ["agente_patrulla_ork", "ani", "anita", "anixa", "arshi", "azu", "bong", "carolina", "cin", "civil_anciano", "civil_hombre", "civil_m", "civil_mujer", "civil_nene", "civil_trabajador", "claudia", "corredor_final", "corredor_incinerario", "cyn", "dario", "ding", "doctor_ork", "el_sabio", "espectro", "ex01", "ex02", "ex03", "ex04", "ex05", "ex06", "ex07", "ex08", "ex09", "ex10", "ex11", "ex12", "ex13", "ex14", "ex15", "ex16", "ex17", "ex18", "ex19", "ex20", "ex21", "ex22", "ex23", "ex24", "ex25", "ex26", "ex27", "ex28", "ex29", "ex30", "ex31", "ex32", "ex33", "ex34", "ex35", "ex36", "ex37", "ex38", "ex39", "ex40", "ex41", "eze", "gato", "giuliana", "gusty", "ignacio", "instructor_ork", "irene", "jaqui", "jem", "joaco", "jota", "jota_viejo", "julieta", "kamikaze", "laura", "le_cape", "lean", "leti", "lilia", "lucas", "lucas_hermano", "luis", "mariano", "mariela", "marta", "mary_futuro", "maxi", "mercedes", "mole", "natsume", "norbert", "oficial_ork", "oscuro_hombre", "oscuro_mujer", "pablo_1", "pablo_2", "pablo_3", "pablo_4", "pablo_futuro", "f_aventurera", "f_mecanica", "f_rubia", "f_urbana", "f_cientifica", "f_medica", "f_medica2", "f_hacker", "f_hacker2", "f_oficinista", "h_barbudo", "h_periodista", "h_rockero", "h_picaro", "h_explorador", "h_panuelo", "h_poncho", "h_soldado", "h_mercenario", "h_guerrero", "h_cientifico", "h_espia", "pol_alter", "pol_futuro", "raul", "renzo", "rocio", "romina", "rosa", "ruben", "sabueso", "sam", "sasha", "sel01", "sel02", "sel03", "sel04", "sel05", "sel07", "sel08", "sel09", "sel11", "sel12", "sel13", "sel14", "sel15", "sel16", "sel17", "sel18", "sel20", "sel21", "sel22", "sel23", "sel24", "sel25", "sel26", "sel27", "sel29", "sel31", "sel34", "sel35", "sofia_buena", "sofia_mala", "teby", "tecnico_ork", "tincho", "toby", "tomy", "vanesa", "viajero", "yuki"];
+  /* ROSTER: personajes para elegir. cls = clase ORK fija (0 militar · 1 científico · 2 espía) → esos son solo de ORK.
+     model = personaje base (sin teñir a mano). */
+  const ROSTER = {
+    m: [['f_aventurera', 'Pelirroja'], ['f_mecanica', 'Mecánica'], ['f_rubia', 'Rubia'], ['f_urbana', 'Urbana'],
+      ['f_cientifica', 'Científica', 1], ['f_medica', 'Médica', 1], ['f_medica2', 'Enfermera', 1], ['f_hacker', 'Hacker', 2], ['f_hacker2', 'Hacker de radio', 2], ['f_oficinista', 'Oficinista', 2],
+      ['', 'Clásica 1', null, 0], ['', 'Clásica 2', null, 1]],
+    h: [['h_barbudo', 'Barbudo'], ['h_periodista', 'Periodista'], ['h_rockero', 'Rockero'], ['h_picaro', 'Pícaro'], ['h_explorador', 'Explorador'], ['h_panuelo', 'Pañuelo rojo'], ['h_poncho', 'Poncho'],
+      ['h_soldado', 'Soldado', 0], ['h_mercenario', 'Mercenario', 0], ['h_guerrero', 'Guerrero', 0], ['h_cientifico', 'Científico', 1], ['h_espia', 'Espía', 2]]
+      .concat(SEL.map((k, i) => [k, 'Sobreviviente ' + (i + 1)]), [['', 'Clásico 1', null, 0], ['', 'Clásico 2', null, 1]])
+  };
+  /* lista que ve cada uno: los de clase fija solo para ORK */
+  const roster = (fem, ork) => ROSTER[fem ? 'm' : 'h'].filter(r => ork || r[2] == null).map(([k, nm, cls, model]) => ({ k, nm, cls: cls == null ? null : cls, model: model == null ? null : model }));
+  const rosterIdx = (list, lk) => Math.max(0, list.findIndex(r => r.k ? r.k === lk.pj : (!lk.pj && lk.model != null && r.model === lk.model)));
+  /* aplica la elección al look: personaje, clase fija y limpia lo viejo de colores */
+  function pickPj(lk, r) { if (r.k) { lk.pj = r.k; delete lk.model; } else { delete lk.pj; lk.model = r.model; } if (r.cls != null) lk.cls = r.cls; ['skin', 'hair', 'hcol', 'top', 'acc', 'pant'].forEach(k => delete lk[k]); return lk; }
+  window.CZ_SHEETS = { ROSTER, roster, rosterIdx, pickPj, SEL, CELL, MODELS, ALL, NPC_SHEET, MOB_SHEET, sheet, base, blit, load };
 })();

diff --git a/www/cenizas.html b/www/cenizas.html
@@ -68,6 +68,7 @@ body{position:fixed;inset:0}
 .opt span{font-size:11.5px;letter-spacing:.14em;color:var(--dim)}
 .opt b{font-weight:400;text-align:center;color:var(--hi);font-size:14px;overflow:hidden;text-overflow:ellipsis;white-space:nowrap}
 .opt button{height:36px;border:1px solid #444;font-size:18px;color:var(--hi)}
+.opt.lock button{opacity:.25}.opt.lock b{color:var(--dim)}
 .cre .go{margin-top:8px}
 @media (orientation:portrait){.cre{grid-template-columns:minmax(0,1fr);grid-template-rows:auto minmax(0,1fr)}.cre .pv canvas{width:150px}}
 .zone{position:fixed;left:50%;top:22%;transform:translateX(-50%);text-align:center;pointer-events:none;opacity:0;transition:opacity .8s;z-index:6}
@@ -195,7 +196,7 @@ body{position:fixed;inset:0}
 <div class="ov" id="ov-dead" hidden><div class="box deadbox"><h2>CAÍSTE</h2><p>La ceniza te cubrió. Despertás en tu base.</p><p id="d-lv" style="color:#ff7a70"></p><div class="row"><button class="btn solid" id="d-ok">LEVANTARSE</button><button class="btn" id="d-fac">ELEGIR BANDO DE NUEVO</button></div></div></div>
 
 <section class="cre" id="cre" hidden>
-  <div class="pv"><h1>TU SOBREVIVIENTE</h1><canvas id="pv" width="48" height="64"></canvas><button class="btn" id="pv-rot" style="font-size:15px;padding:6px 12px 4px">GIRAR</button></div>
+  <div class="pv"><h1>TU SOBREVIVIENTE</h1><canvas id="pv" width="240" height="320"></canvas><button class="btn" id="pv-rot" style="font-size:15px;padding:6px 12px 4px">GIRAR</button></div>
   <div class="opts" id="opts"></div>
 </section>
 
